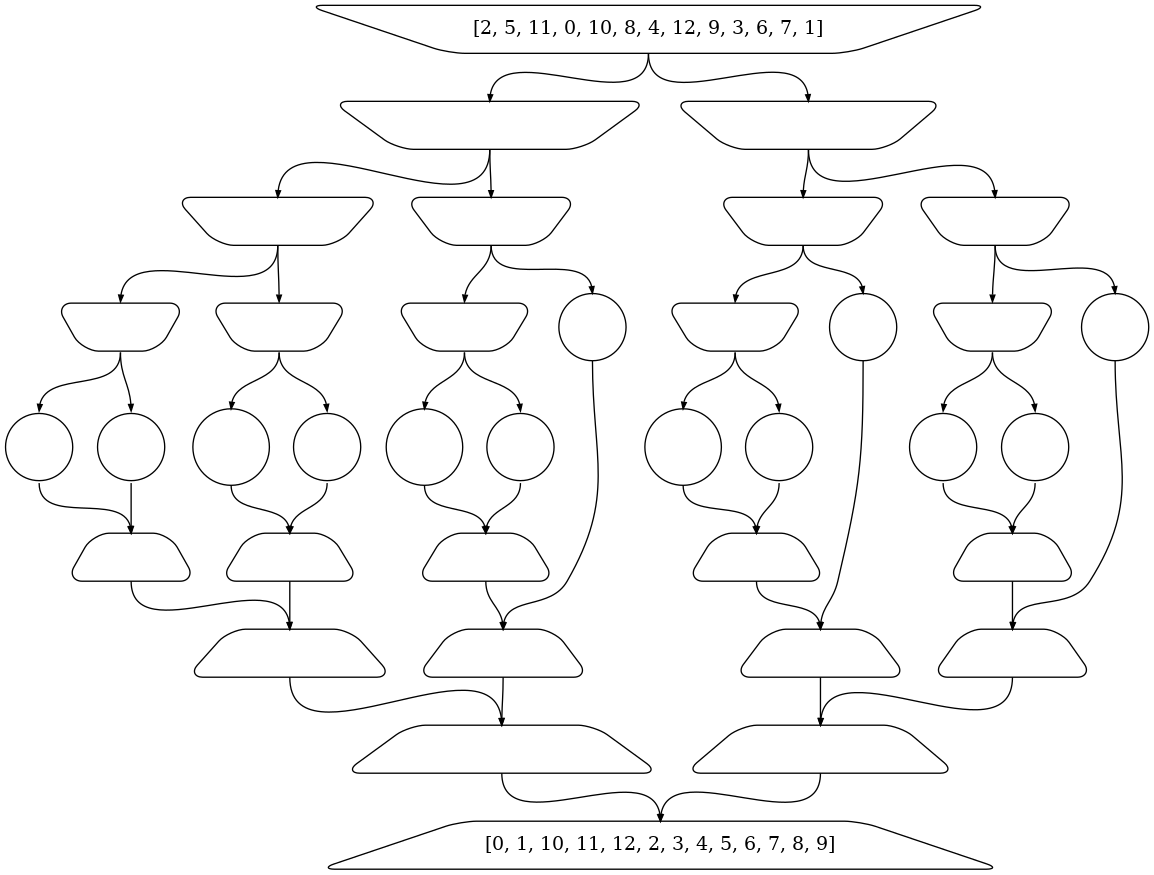
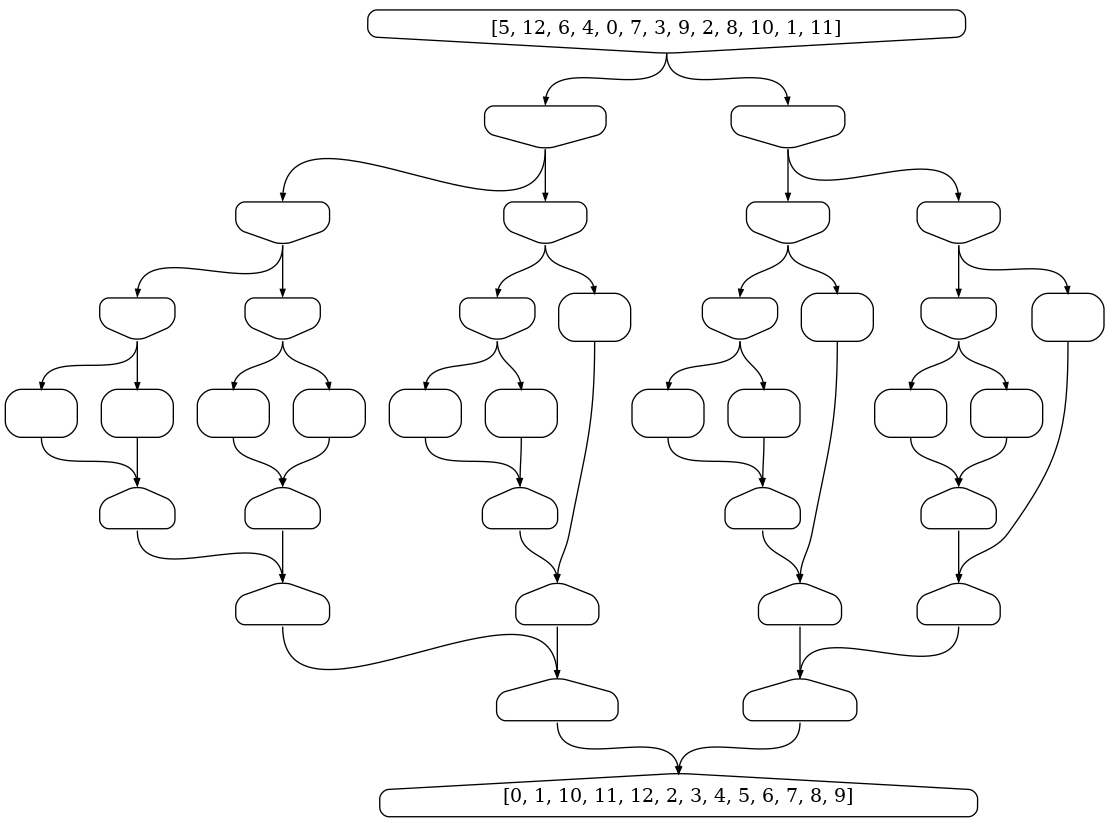
améliorations + formes et styles

diff --git a/trifusionviz/trifusionviz.py b/trifusionviz/trifusionviz.py
@@ -13,32 +13,32 @@ class Noeud:
     _liste_noeuds = []
     _liste_prof_cach = []
     _shape_diviser = "invtrapezium"
-    _shape_arret = "circle"
+    _shape_arreter = "circle"
     _shape_combiner = "trapezium"
 
     def __init__(self, contenu, profondeur):
         self.numero = Noeud._numero
         self.profondeur = profondeur
+        self.forme = None
         #
         Noeud._numero += 1
         #
         self.liste = contenu
         #
-        if len(contenu) == 1:
-            self._shape = Noeud._shape_arret
-        elif profondeur <= Noeud._profondeur_max / 2:
-            self._shape = Noeud._shape_diviser
-        else:
-            self._shape = Noeud._shape_combiner
-        #
-        self.dico = {"numero": self.numero,
-                     "profondeur": profondeur,
-                     "de": None,
-                     "vers": None}
+        self._de = []
+        self._vers = []
         #
         Noeud._liste_noeuds.append(self)
 
     def visu(self, sousgraphe):
+        if not self.forme:
+            if len(self.liste) == 1:
+                self.forme = Noeud._shape_arreter
+            elif self.profondeur <= Noeud._profondeur_max / 2:
+                self.forme = Noeud._shape_diviser
+            else:
+                self.forme = Noeud._shape_combiner
+        #
         if self.profondeur not in Noeud._liste_prof_cach:
             etiquette = str(self.liste)
         else:
@@ -46,7 +46,7 @@ class Noeud:
         #
         sousgraphe.node(str(self.numero),
                         label=etiquette,
-                        shape=self._shape,
+                        shape=self.forme,
                         fillcolor=str(self.profondeur))
 
 
@@ -111,12 +111,16 @@ class trifusionviz:
         # 1 en trop car une profondeur manquante : celle de la
         # condtion de terminaison
         self._nb_profondeurs = 1 + 2 * math.ceil(math.log2(len(liste)))
-        Noeud._profondeur_max = self._nb_profondeurs + 1
+        Noeud._profondeur_max = self._nb_profondeurs
         #
         # attributs publics
         self.fonction_ordre = None
         self.noirblanc = False
         self.profondeurs_cachees = []
+        self.forme_diviser = None
+        self.forme_combiner = None
+        self.forme_arreter = None
+        self.style = None
         #
         self._racine = Noeud(liste, 1)
 
@@ -125,42 +129,54 @@ class trifusionviz:
         #
         Noeud._liste_prof_cach = self.profondeurs_cachees
         self._graphe.attr("node", colorscheme=f"rdylgn{self._nb_profondeurs}")
-        self._graphe.attr("node", style="rounded")
-        if not self.noirblanc:
-            self._graphe.attr("node", style="filled")
         #
-        self._racine.visu(self._graphe)
+        if not self.style:
+            style = "filled,rounded"
+            if self.noirblanc:
+                style = "rounded"
+        else:
+            style = self.style
+        self._graphe.attr("node", style=style)
+        #
+        if self.forme_arreter:
+            Noeud._shape_arreter = self.forme_arreter
+        if self.forme_combiner:
+            Noeud._shape_combiner = self.forme_combiner
+        if self.forme_diviser:
+            Noeud._shape_diviser = self.forme_diviser
+        #
+        # self._racine.visu(self._graphe)
         self._trace()
         #
         self._graphe.render(filename=nom_fichier, format=format)
 
     def _tri_fusion(self, noeud, profondeur=1):
         liste = noeud.liste
-
+        #
         if len(liste) == 1: return noeud
-
+        #
         iMilieu = (len(liste) + 1) // 2
         g = liste[:iMilieu]
         d = liste[iMilieu:]
         og = Noeud(g, profondeur + 1)
         od = Noeud(d, profondeur + 1)
-
+        #
         ng = self._tri_fusion(og, profondeur + 1)
         nd = self._tri_fusion(od, profondeur + 1)
         f = _fusion(ng.liste, nd.liste, self.fonction_ordre)
         nf = Noeud(f, self._nb_profondeurs - profondeur + 1)
-
-        og.dico["de"] = noeud.numero # noeud.dico["numero"]
-        od.dico["de"] = noeud.numero # noeud.dico["numero"]
-        ng.dico["vers"] = nf.numero # nf.dico["numero"]
-        nd.dico["vers"] = nf.numero # nf.dico["numero"]
-
+        #
+        og._de.append(noeud.numero)
+        od._de.append(noeud.numero)
+        ng._vers.append(nf.numero)
+        nd._vers.append(nf.numero)
+        #
         return nf
 
     def _trace(self):
         # clusters des noeuds avec la même profondeur
-        for i in range(Noeud._profondeur_max + 1):
-            with self._graphe.subgraph(name=str(i)) as prof:
+        for i in range(1, Noeud._profondeur_max + 1):
+            with self._graphe.subgraph(name=str(i)+"sub") as prof:
                 prof.attr(rank="same")
                 for n in Noeud._liste_noeuds:
                     if n.profondeur == i:
@@ -168,8 +184,9 @@ class trifusionviz:
 
         # les arcs
         for n in Noeud._liste_noeuds:
-            if n.dico['de'] is not None:
-                Arc(Noeud._liste_noeuds[n.dico['de']], n).visu(self._graphe)
-            if n.dico['vers'] is not None:
-                Arc(n, Noeud._liste_noeuds[n.dico['vers']]).visu(self._graphe)
+            # a priori chaque liste ci-dessous est vide ou un singleton
+            for parent in n._de:
+                Arc(Noeud._liste_noeuds[parent], n).visu(self._graphe)
+            for enfant in n._vers:
+                Arc(n, Noeud._liste_noeuds[enfant]).visu(self._graphe)
 

diff --git a/exemple_script.py b/exemple_script.py
@@ -12,5 +12,12 @@ u = tfv.trifusionviz(liste)
 u.fonction_ordre = lambda x, y: str(x) < str(y)
 u.noirblanc = True
 u.profondeurs_cachees = range(2, 2 + 7)
+u.forme_diviser, u.forme_arreter, u.forme_combiner = \
+    "invhouse", "rectangle", "house"
 # sortie png
 u.sortie("exemple_sortie_lexico", "png")
+
+v = tfv.trifusionviz(range(13))
+v.style = "invis"
+# sortie png
+v.sortie("exemple_invisible", "png")

diff --git a/setup.py b/setup.py
@@ -5,7 +5,7 @@ with open('README.md') as f:
 
 setup(
     name='trifusionviz',
-    version='0.3',
+    version='0.4',
     description='illustration du tri fusion',
     long_description_content_type='text/markdown',
     long_description=long_description,

diff --git a/trifusionviz/__init__.py b/trifusionviz/__init__.py
@@ -1,7 +1,7 @@
 # -*- coding: utf-8 -*-
 from .trifusionviz import *
 
-version = '0.3'
+version = '0.4'
 
 if __name__ == "__main__":
     import random

diff --git a/README.md b/README.md
@@ -12,7 +12,7 @@ $ pip3 install trifusionviz
 import trifusionviz as tfv
 import random
 
-liste = list(range(17))
+liste = list(range(13))
 random.shuffle(liste)
 
 t = tfv.trifusionviz(liste)
@@ -23,14 +23,25 @@ u = tfv.trifusionviz(liste)
 u.fonction_ordre = lambda x, y: str(x) < str(y)
 u.noirblanc = True
 u.profondeurs_cachees = range(2, 2 + 7)
+u.forme_diviser, u.forme_arreter, u.forme_combiner = \
+    "invhouse", "rectangle", "house"
 # sortie png
 u.sortie("exemple_sortie_lexico", "png")
 
+v = tfv.trifusionviz(range(13))
+v.style = "invis"
+# sortie png
+v.sortie("exemple_invisible", "png")
+
 ```
 
-## Exemple de sortie image
+## Exemples des sorties
+
+<img src="20201221-105704-Evince.png" width="800">
 
 <img src="exemple_sortie_lexico.png" width="800">
+
+<img src="exemple_invisible.png" width="800">
 
 ## Licence
 CC-BY-NC-SA
